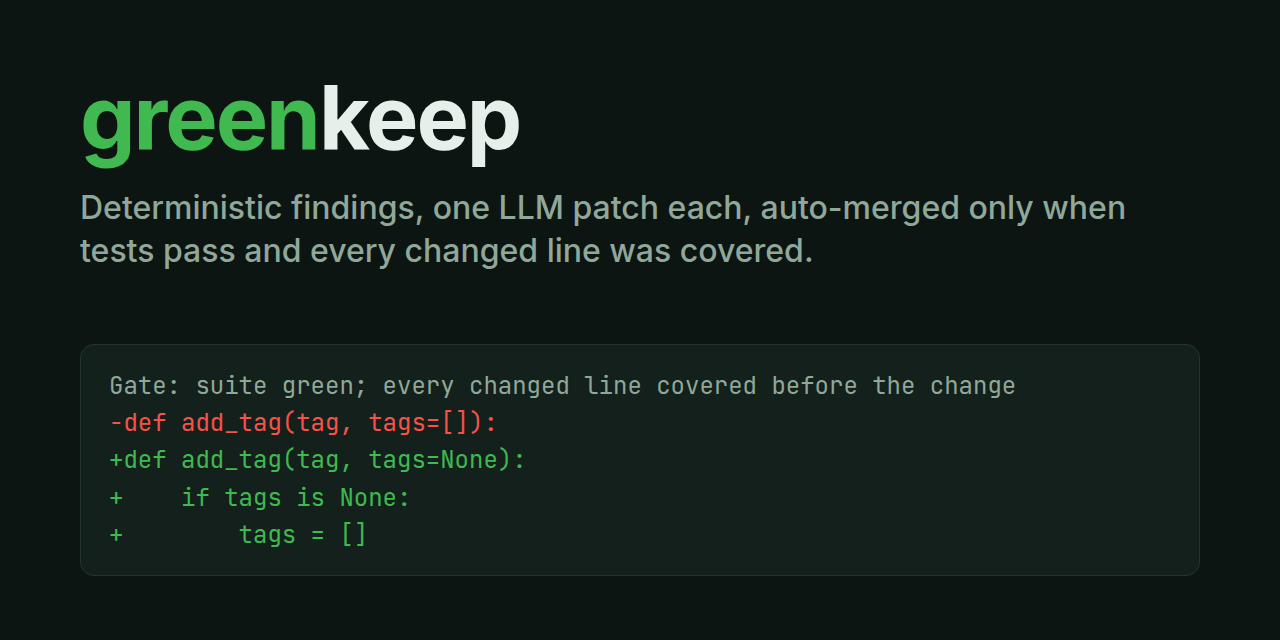
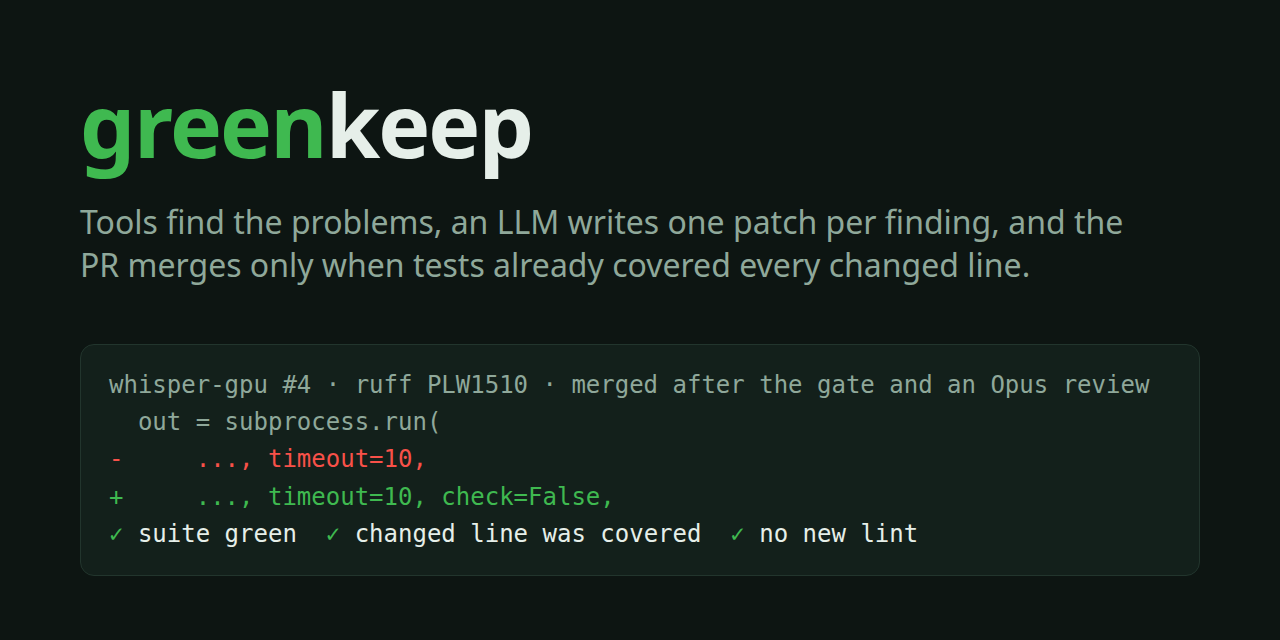
docs: hero and workflow diagram show the real whisper-gpu#4 fix, Russian versions

diff --git a/docs/assets/social.html b/docs/assets/social.html
@@ -16,11 +16,11 @@
 </style></head><body>
 <div>
   <h1><span>green</span>keep</h1>
-  <p>Deterministic findings, one LLM patch each, auto-merged only when tests pass and every changed line was covered.</p>
+  <p>Tools find the problems, an LLM writes one patch per finding, and the PR merges only when tests already covered every changed line.</p>
 </div>
-<pre><span class="meta">Gate: suite green; every changed line covered before the change</span>
-<span class="del">-def add_tag(tag, tags=[]):</span>
-<span class="add">+def add_tag(tag, tags=None):</span>
-<span class="add">+    if tags is None:</span>
-<span class="add">+        tags = []</span></pre>
+<pre><span class="meta">whisper-gpu #4 · ruff PLW1510 · merged after the gate and an Opus review</span>
+<span class="meta">  out = subprocess.run(</span>
+<span class="del">-     ..., timeout=10,</span>
+<span class="add">+     ..., timeout=10, check=False,</span>
+<span class="add">✓</span> suite green  <span class="add">✓</span> changed line was covered  <span class="add">✓</span> no new lint</pre>
 </body></html>

diff --git a/README.ru.md b/README.ru.md
@@ -1,4 +1,4 @@
-<p align="center"><img src="docs/assets/hero.svg" width="100%" alt="greenkeep: детерминированные инструменты находят проблемы, LLM пишет по патчу на находку, вливается только если тесты уже покрывали каждую изменённую строку"></p>
+<p align="center"><img src="docs/assets/hero.ru.svg" width="100%" alt="greenkeep: инструменты находят проблемы, LLM пишет по патчу на находку, PR вливается, только если тесты уже покрывали каждую изменённую строку. На картинке: настоящий fix PR whisper-gpu #4 для ruff PLW1510 и проверки гейта, которые он прошёл"></p>
 
 [![test](https://github.com/octrow/greenkeep/actions/workflows/test.yml/badge.svg)](https://github.com/octrow/greenkeep/actions/workflows/test.yml)
 [![release](https://img.shields.io/github/v/release/octrow/greenkeep)](https://github.com/octrow/greenkeep/releases/latest)
@@ -54,6 +54,8 @@ greenkeep сопровождает ваши собственные Python-реп
 Что не получилось: 20 находок отложены после трёх попыток, 16 из них — характеризационные тесты (неверные догадки о поведении, новый lint, отказ ревьюера, тесты не там, где их держит репозиторий). Хорошие тесты для непокрытого кода — самая трудная его работа, и проваливает он чаще всего её.
 
 ## Как это работает
+
+<p align="center"><img src="docs/assets/workflow.ru.svg" width="100%" alt="На каждую находку: Поиск (pip-audit, ruff, coverage), Патч (Sonnet, один патч на одну находку), Гейт (тесты зелёные, строки покрыты, нового lint нет), Ревью (Opus читает репозиторий), Влить (plan issue, PR, squash merge). Отклонённый патч пробуется снова, после трёх попыток находка откладывается с меткой needs-human"></p>
 
 1. Клон: каждый переданный репозиторий клонируется в `~/.cache/greenkeep`, ваша рабочая копия не трогается. Если тесты красные ещё до каких-либо изменений, репозиторий пропускается.
 2. Поиск: находки дают только детерминированные инструменты: pip-audit (уязвимые зависимости), ruff (сначала правила безопасности, багов и pyflakes), coverage (плохо покрытые модули), устаревшие зависимости и проверки готовности. Включаемая охота на баги добавляет баги, которые заподозрила модель; каждый чинится через тест.

diff --git a/README.md b/README.md
@@ -1,4 +1,4 @@
-<p align="center"><img src="docs/assets/hero.svg" width="100%" alt="greenkeep: deterministic tools find problems, an LLM writes one patch per finding, merged only when the tests already covered every changed line"></p>
+<p align="center"><img src="docs/assets/hero.svg" width="100%" alt="greenkeep: tools find the problems, an LLM writes one patch per finding, the PR merges only when tests already covered every changed line. Shown: the real fix PR whisper-gpu #4 for ruff PLW1510 and the gate checks it passed"></p>
 
 [![test](https://github.com/octrow/greenkeep/actions/workflows/test.yml/badge.svg)](https://github.com/octrow/greenkeep/actions/workflows/test.yml)
 [![release](https://img.shields.io/github/v/release/octrow/greenkeep)](https://github.com/octrow/greenkeep/releases/latest)
@@ -54,6 +54,8 @@ The first week on the author's 19 tended repos (2026-10-15 to 2026-10-22), from 
 What it did not manage: 20 findings were parked after three attempts, 16 of them characterization tests (wrong guesses about behaviour, new lint, a reviewer rejection, tests put where the repo does not keep them). Writing good tests for untested code is the hardest job it has, and the one it fails most.
 
 ## How it works
+
+<p align="center"><img src="docs/assets/workflow.svg" width="100%" alt="Per finding: Find (pip-audit, ruff, coverage), Patch (Sonnet, one patch for one finding), Gate (suite green, lines covered, no new lint), Review (Opus reads the repo), Merge (plan issue, PR, squash merge). Rejected patches are retried; after 3 attempts the finding is parked as needs-human"></p>
 
 1. Clone: each repo you pass is cloned into `~/.cache/greenkeep`; your checkout is never touched. If its tests are red before greenkeep changes anything, the repo is skipped.
 2. Find: findings come from deterministic tools only: pip-audit (vulnerable dependencies), ruff (security, bug and pyflakes rules first), coverage (poorly tested modules), outdated dependencies and readiness checks. An opt-in bug hunt adds model-suspected bugs, each fixed test first.
